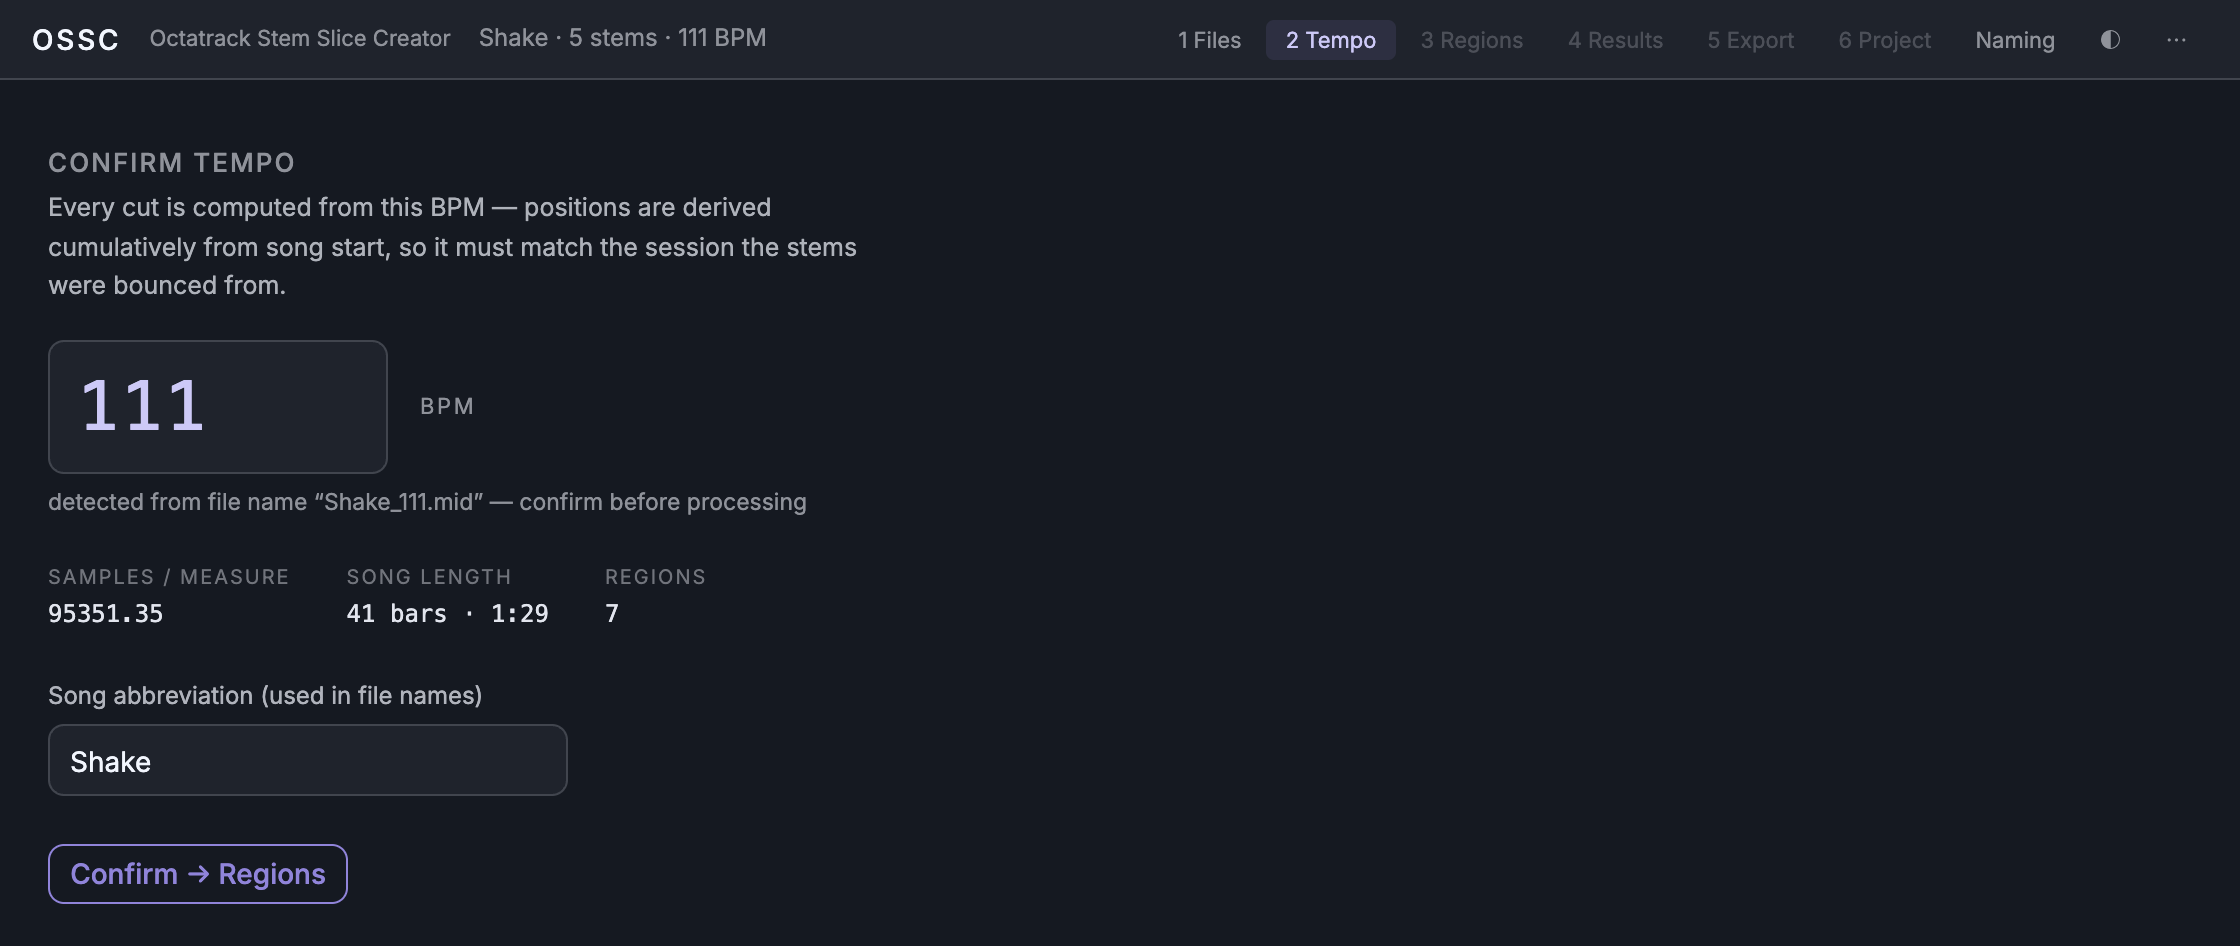
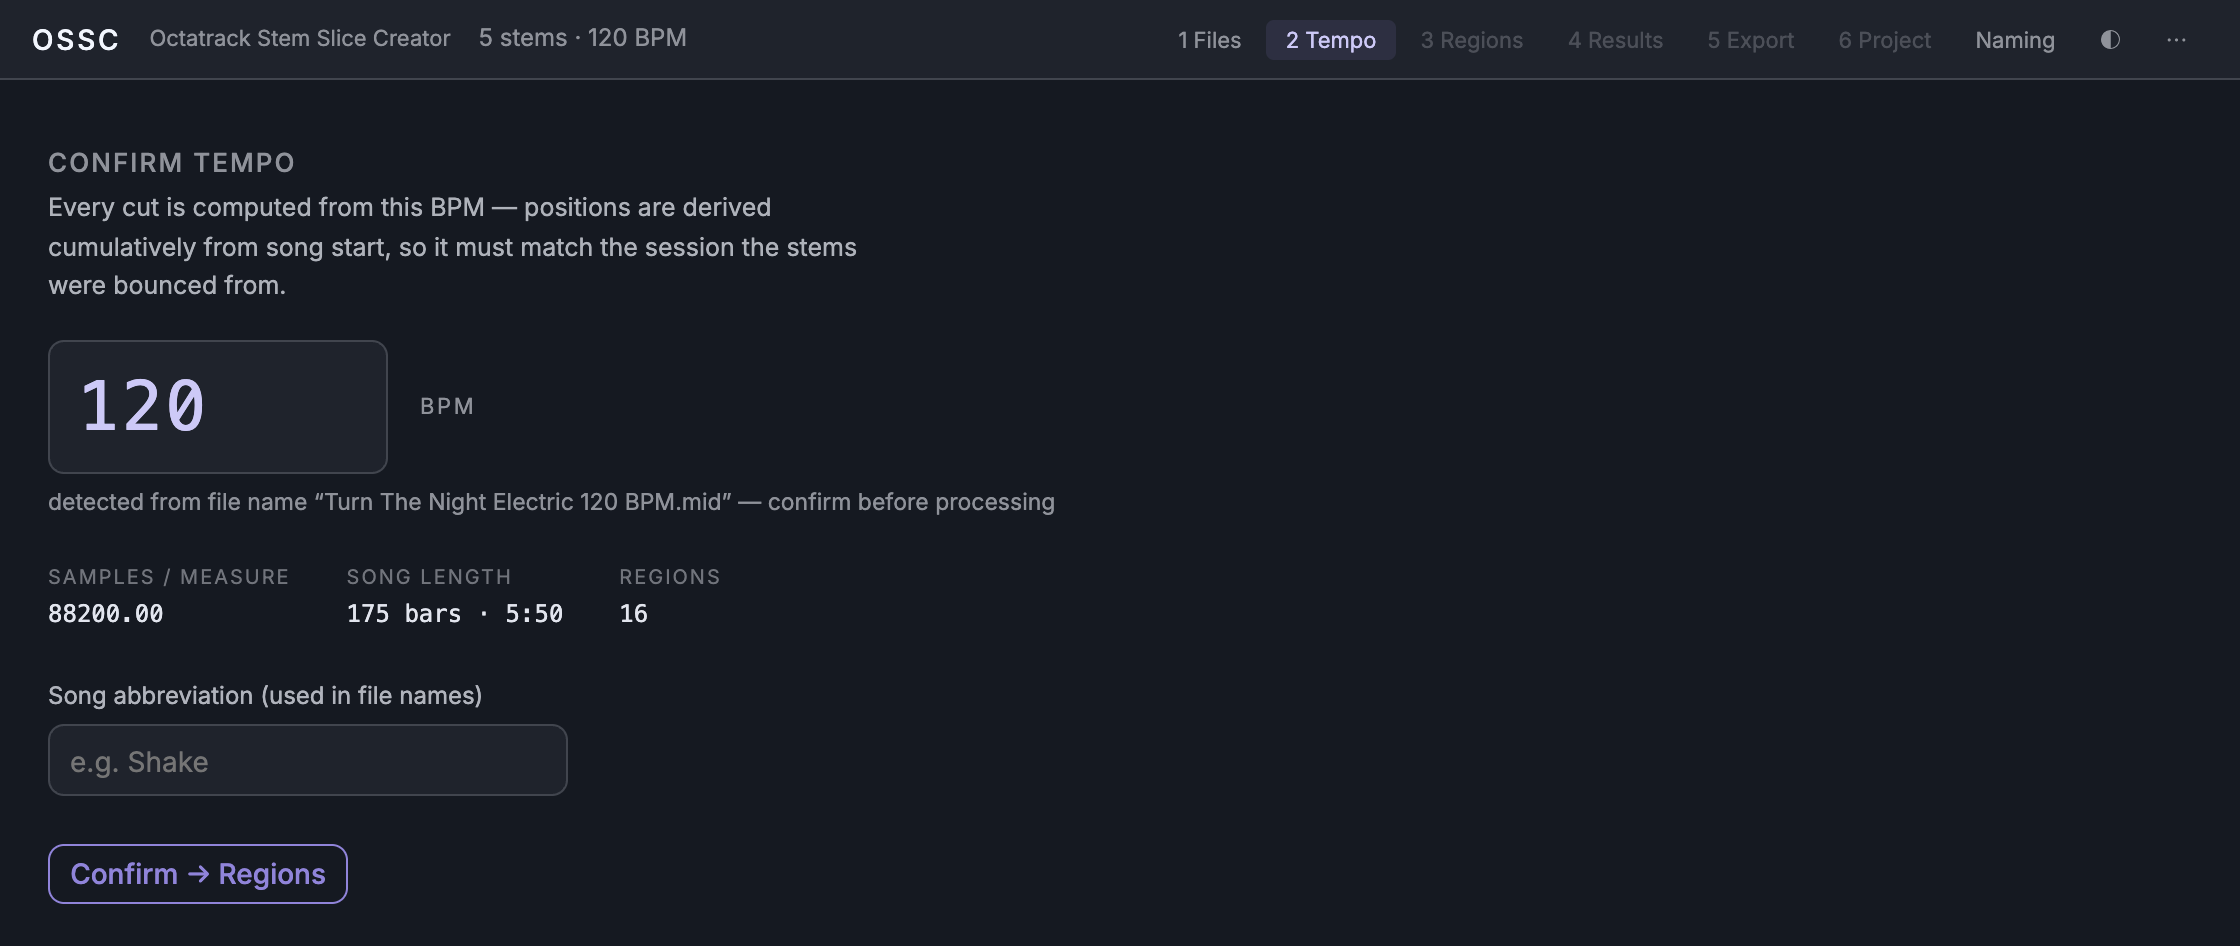
Shoot the README with a real song; declutter the overview strip
scripts/screenshots.mjs now loads a real stem set + arrangement MIDI from
STEMS_DIR (falling back to the built-in demo when the folder is absent, so
the script still runs anywhere), and the README images show actual music
through the whole flow. Overview bar numbers that landed under a section
label are dropped rather than stacked — at 26 px tall the two rows read as
one smudge. README notes the numeric-prefix auto-ordering on intake.

diff --git a/src/components/timeline/Overview.jsx b/src/components/timeline/Overview.jsx
@@ -24,10 +24,18 @@ export default function Overview({
   const barLabels = useMemo(() => {
     if (!width || !totalBars) return [];
     const step = barLabelStep(totalBars, width);
+    // Section labels sit at each region's left edge; a bar number starting in
+    // that zone reads as one smudged glyph pile at this strip height, so those
+    // numbers are dropped rather than stacked.
+    const labelZones = regions.map(r => (r.start / totalBars) * width);
     const out = [];
-    for (let bar = 0; bar < totalBars; bar += step) out.push(bar);
+    for (let bar = 0; bar < totalBars; bar += step) {
+      const x = (bar / totalBars) * width;
+      if (labelZones.some(zone => x >= zone - 14 && x <= zone + 44)) continue;
+      out.push(bar);
+    }
     return out;
-  }, [width, totalBars]);
+  }, [width, totalBars, regions]);
 
   return (
     <div

diff --git a/README.md b/README.md
@@ -96,8 +96,10 @@ bounced — sample-for-sample, at the level you left it.
 <img src="docs/img/02-files-loaded.png" alt="Files step" width="100%">
 
 Drag your files anywhere onto the pane. Each stem becomes a row; the order here becomes the
-Octatrack **track order**, so drag them into the order you want with the ▲▼ buttons. Rename a stem
-by typing in its field — that name ends up in the exported file names.
+Octatrack **track order**. Stems named with a leading track number — `1 DRUMS.wav`, `2 BASS.wav` —
+sort themselves onto the right tracks automatically (and the number is dropped from the display
+name); anything else can be moved with the ▲▼ buttons. Rename a stem by typing in its field — that
+name ends up in the exported file names.
 
 ### 2 · Confirm the tempo
 
